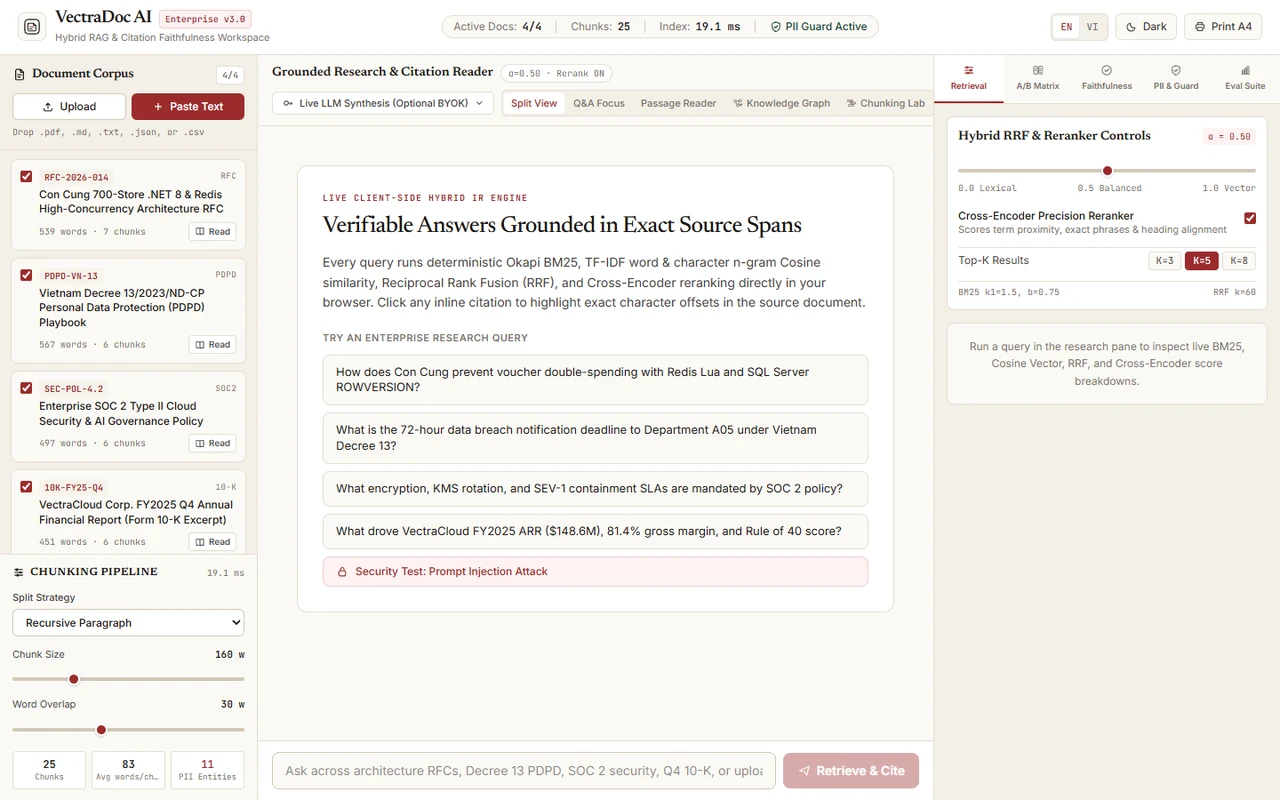
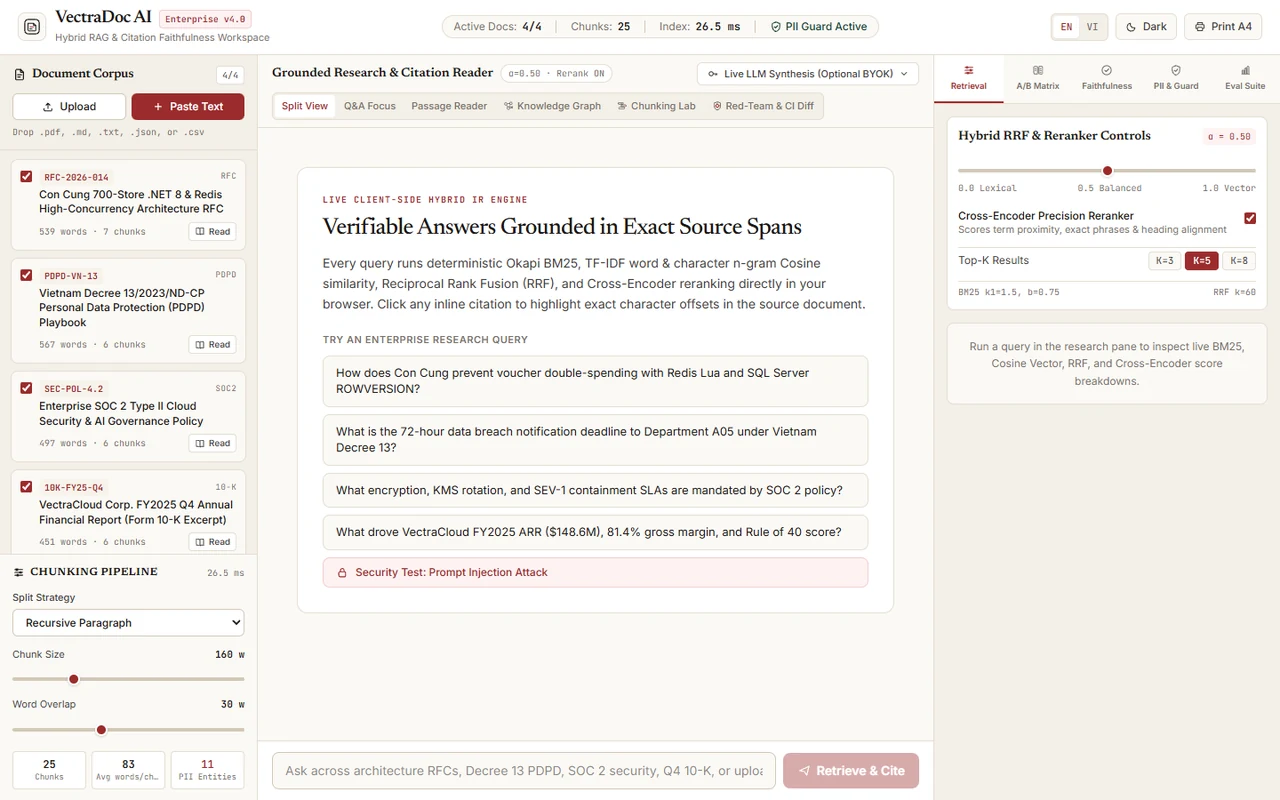
chore(v9.0): sync Wave 4 Elite v4.0 Top-4 flagships (4,241 live CI tests) & fresh WebPs

Changed region(s): [[0.25, 0.2188, 0.6875, 0.625], [0.2188, 0.0625, 0.7188, 0.1562], [0.25, 0.6562, 0.6562, 0.7188]]

diff --git a/src/engines/catalog.ts b/src/engines/catalog.ts
@@ -903,7 +903,7 @@ export const CATALOG_PRODUCTS: TemplateProduct[] = [
   {
     id: 'aeroforge-digital-twin',
     sku: 'TVT-IOT-22',
-    name: 'AeroForge 3D Twin v3.0',
+    name: 'AeroForge 3D Twin v4.0',
     subtitle: {
       vi: 'Bản Sao Số Nhà Máy 4.0 3D, Robot 6 Trục Kinematics & AI Dự Báo Lỗi FFT',
       en: 'Industry 4.0 Smart Factory 3D Twin, 6-Axis Robot Kinematics & Vibration FFT AI',
@@ -948,7 +948,7 @@ export const CATALOG_PRODUCTS: TemplateProduct[] = [
   {
     id: 'helios-quant-terminal',
     sku: 'TVT-QNT-21',
-    name: 'Helios Quant Terminal v3.0',
+    name: 'Helios Quant Terminal v4.0',
     subtitle: {
       vi: 'Sàn Khớp Lệnh L2 Orderbook, Biểu Đồ Nến Canvas & Backtest Thuật Toán Quant',
       en: 'Institutional L2 Orderbook Matching Engine, Canvas Candlestick & Algo Backtester',
@@ -1038,7 +1038,7 @@ export const CATALOG_PRODUCTS: TemplateProduct[] = [
   {
     id: 'orbitalflow-saas',
     sku: 'TVT-SAAS-23',
-    name: 'OrbitalFlow B2B SaaS v3.0',
+    name: 'OrbitalFlow B2B SaaS v4.0',
     subtitle: {
       vi: 'Nền Tảng B2B SaaS Đa Tenant, RBAC, Gantt Đường Găng & Stripe Metering',
       en: 'Multi-Tenant B2B SaaS, RBAC Matrix, Gantt CPM & Stripe Proration Billing',
@@ -1083,7 +1083,7 @@ export const CATALOG_PRODUCTS: TemplateProduct[] = [
   {
     id: 'vectradoc-rag',
     sku: 'TVT-AI-24',
-    name: 'VectraDoc AI RAG v3.0',
+    name: 'VectraDoc AI RAG v4.0',
     subtitle: {
       vi: 'AI Đọc Tài Liệu Hybrid RAG (BM25 + Vector RRF), Trích Dẫn & Che PII',
       en: 'Enterprise Document Intelligence, Live Hybrid BM25+Vector RRF RAG & PII Guard',

diff --git a/src/components/HeroSection.tsx b/src/components/HeroSection.tsx
@@ -36,7 +36,7 @@ export const HeroSection: React.FC<HeroSectionProps> = ({ locale, onPreviewLive 
       label: locale === 'vi' ? 'Hệ Thống & Pro Tools Live' : 'Live Apps & Pro Tools',
     },
     {
-      value: '4,044',
+      value: '4,241',
       label: locale === 'vi' ? 'Tests Xanh (.NET 10 / FastAPI / UI)' : 'Green Tests (.NET 10 / FastAPI / UI)',
     },
     {
